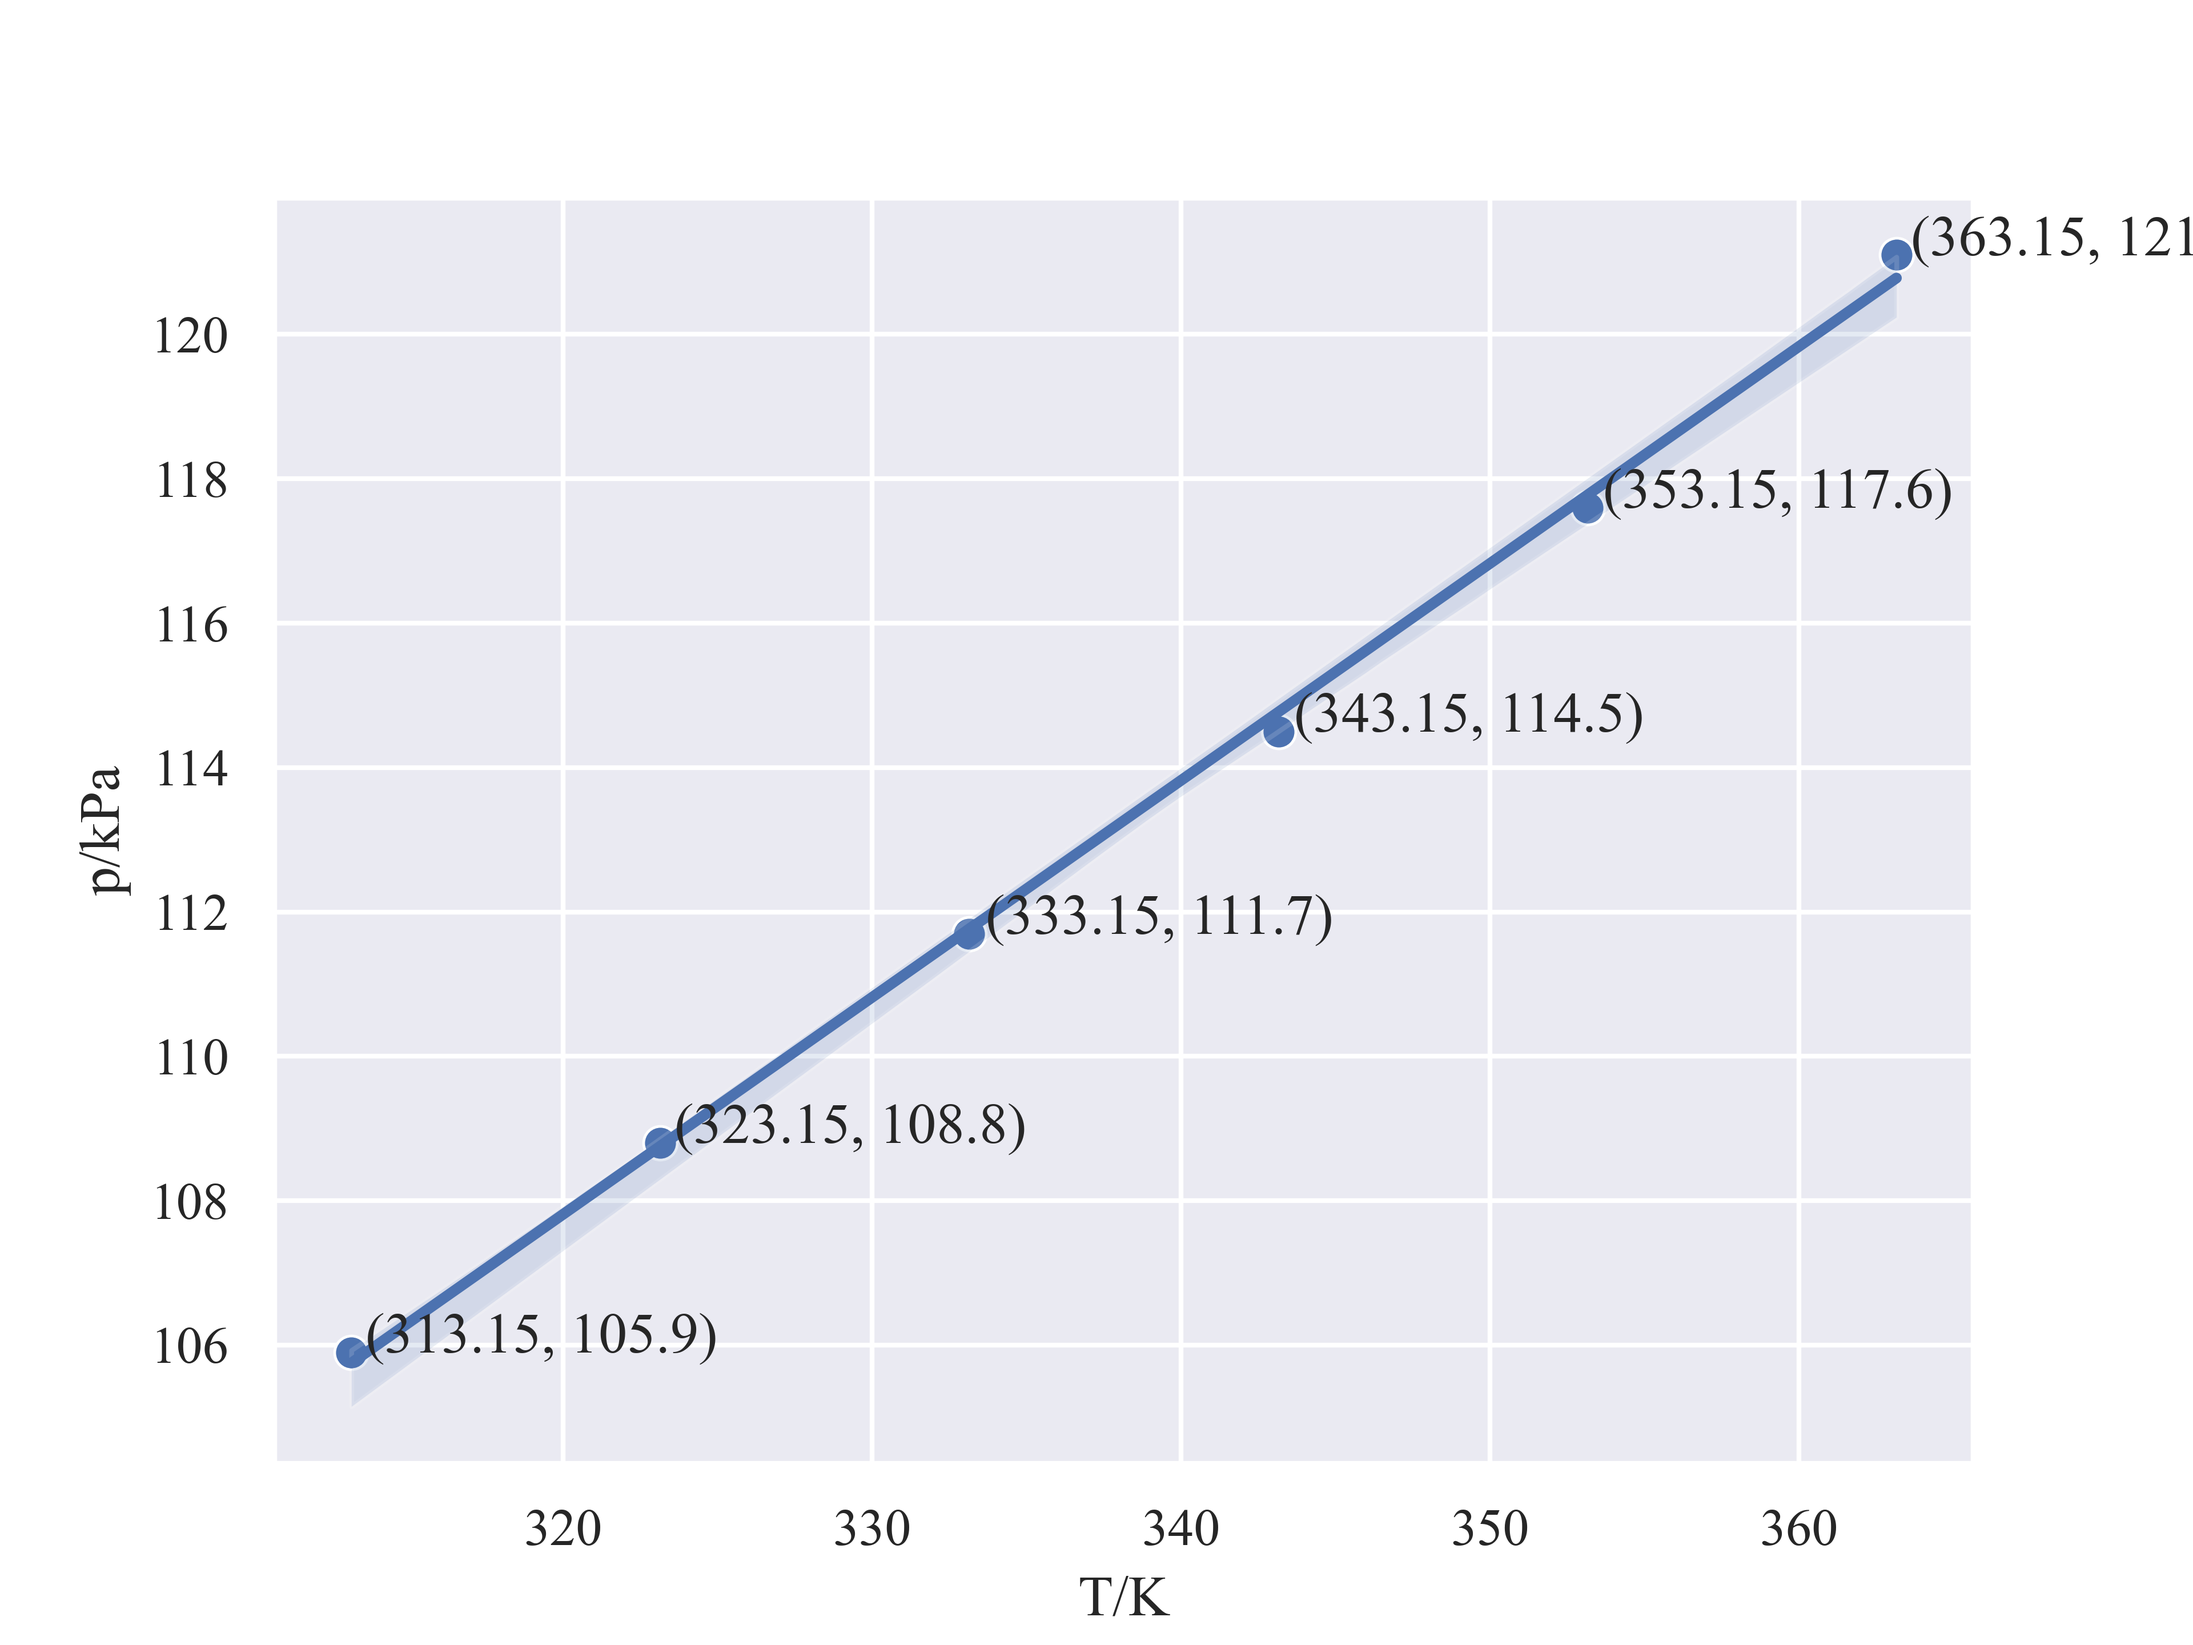
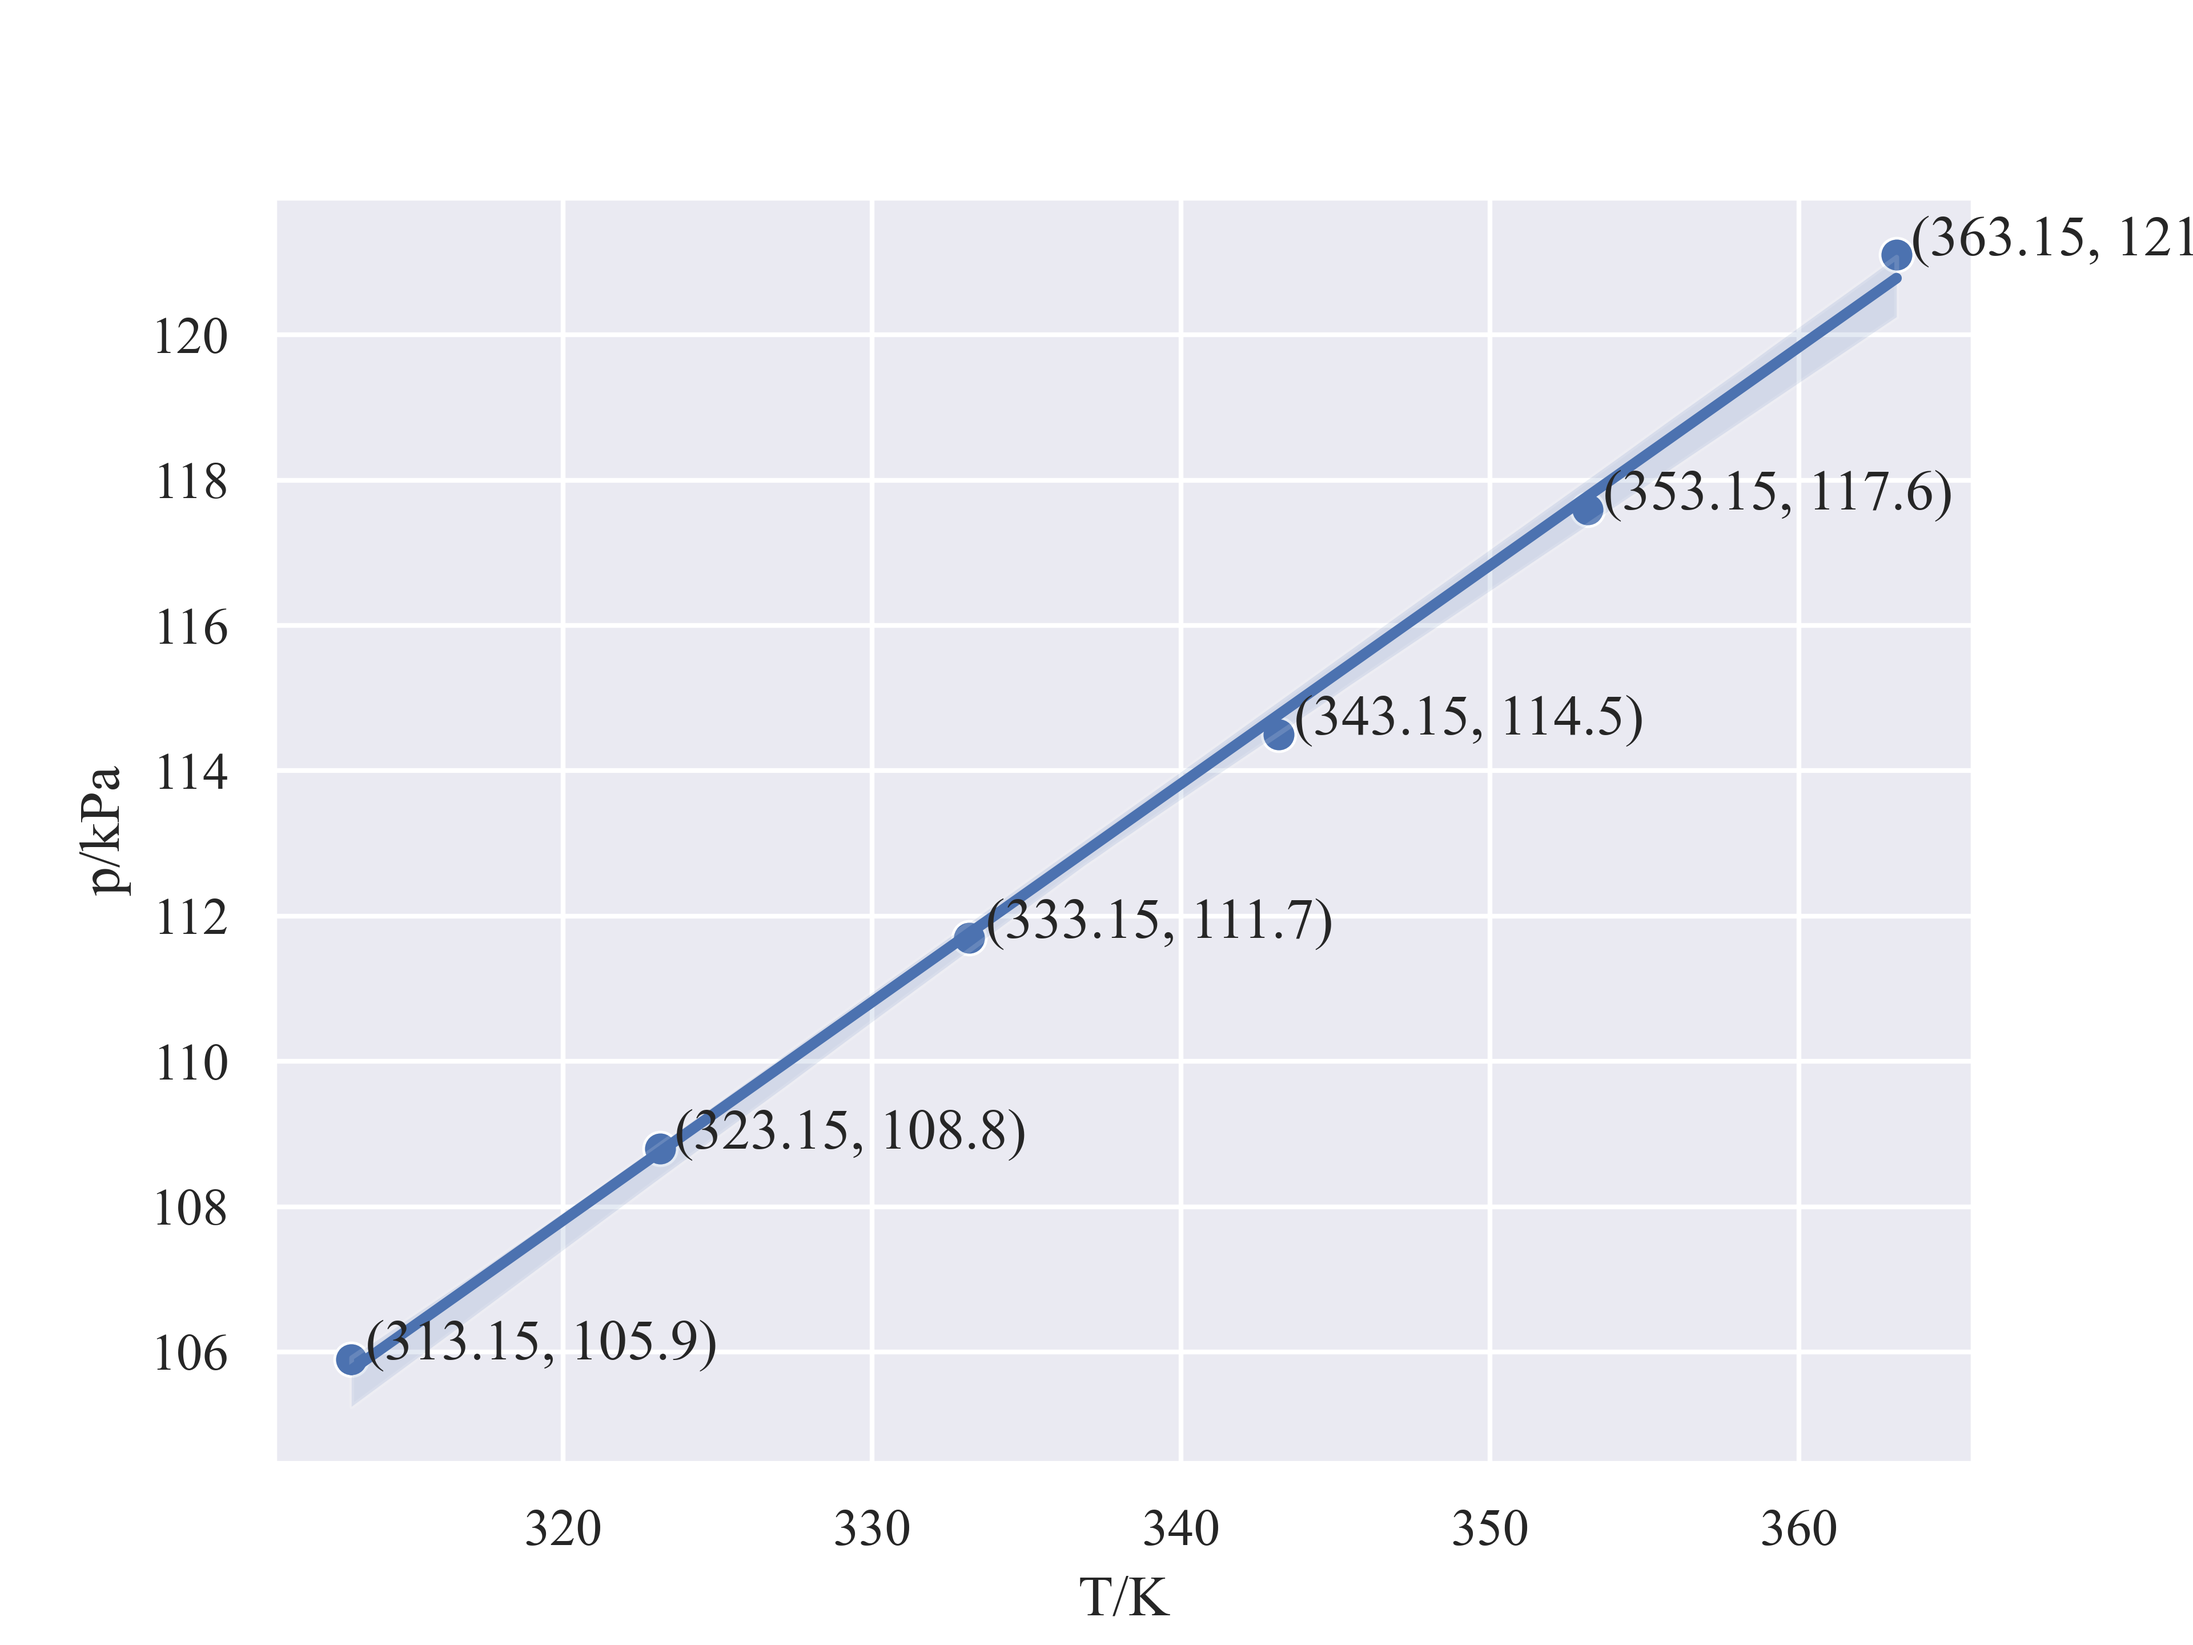
add support for linux

diff --git a/draw.py b/draw.py
@@ -53,6 +53,7 @@ def draw(input_file: str, sheet_name: str, colomns_index: tuple[int] | list[int]
 
 	font_path = 'resources/times.ttf'
 	font_prop = fm.FontProperties(fname=font_path)
+	fm.fontManager.addfont(font_path)   # for linux
 	sns.set(font=font_prop.get_name())
 
 	# 调用绘图函数
